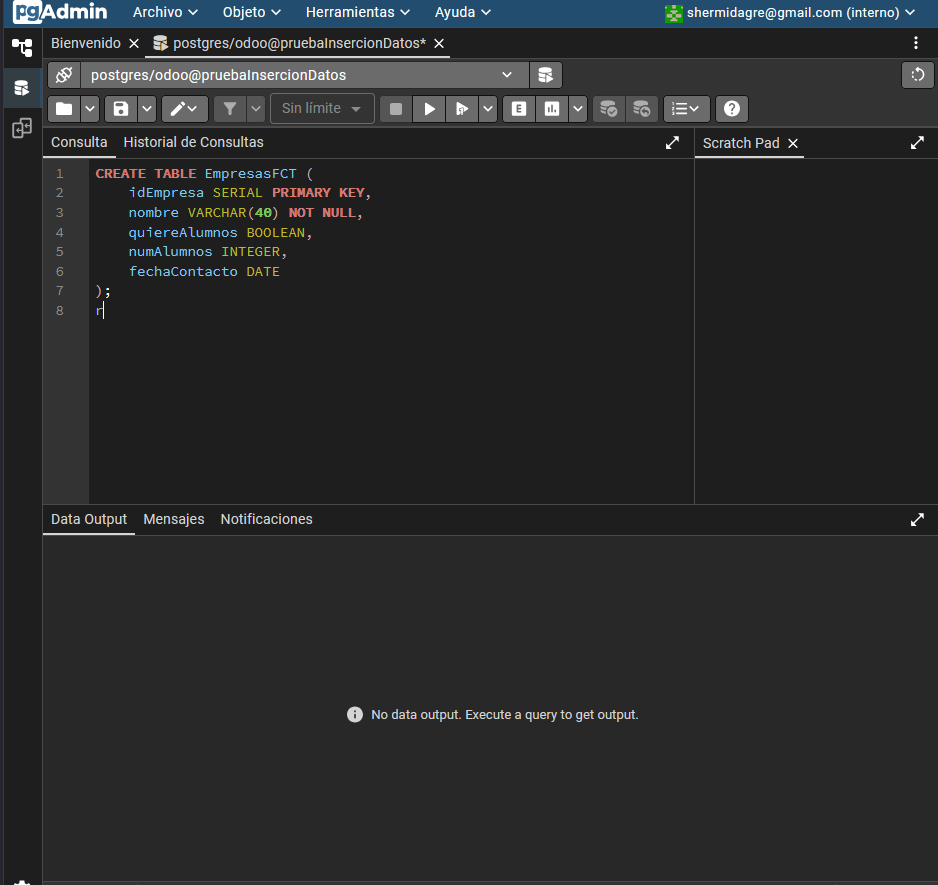
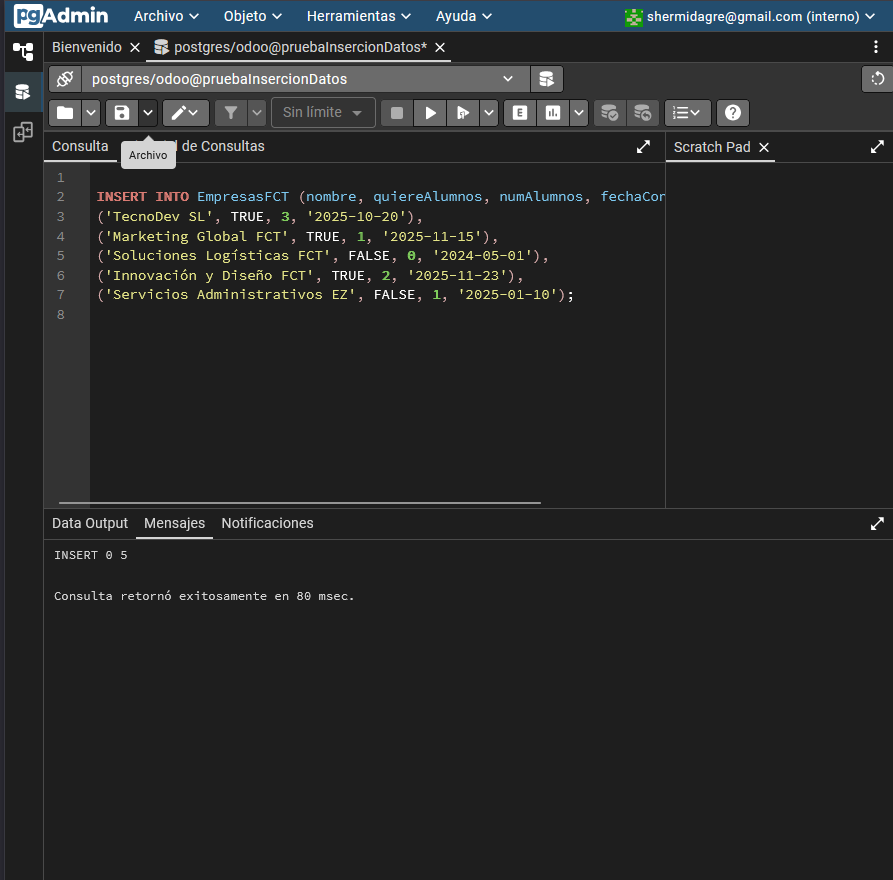
segunda consulta

diff --git a/DockerCompose/DockerOdoo2(Ej14)/Readme.md b/DockerCompose/DockerOdoo2(Ej14)/Readme.md
@@ -43,7 +43,28 @@ CREATE TABLE EmpresasFCT (
 
 ```
 
+En el cuadro de abajo se puede ver la tabla creada correctamente
+
+![img_8.png](img_8.png)
+
+----
+
+### Insertar datos en la tabla
+
+```dotenv
+
+INSERT INTO EmpresasFCT (nombre, quiereAlumnos, numAlumnos, fechaContacto) VALUES
+('TecnoDev SL', TRUE, 3, '2025-10-20'),
+('Marketing Global FCT', TRUE, 1, '2025-11-15'),
+('Soluciones Logísticas FCT', FALSE, 0, '2024-05-01'),
+('Innovación y Diseño FCT', TRUE, 2, '2025-11-23'),
+('Servicios Administrativos EZ', FALSE, 1, '2025-01-10');
+```
+
+----
+
 ![img_7.png](img_7.png)
 
 ----
+
 
